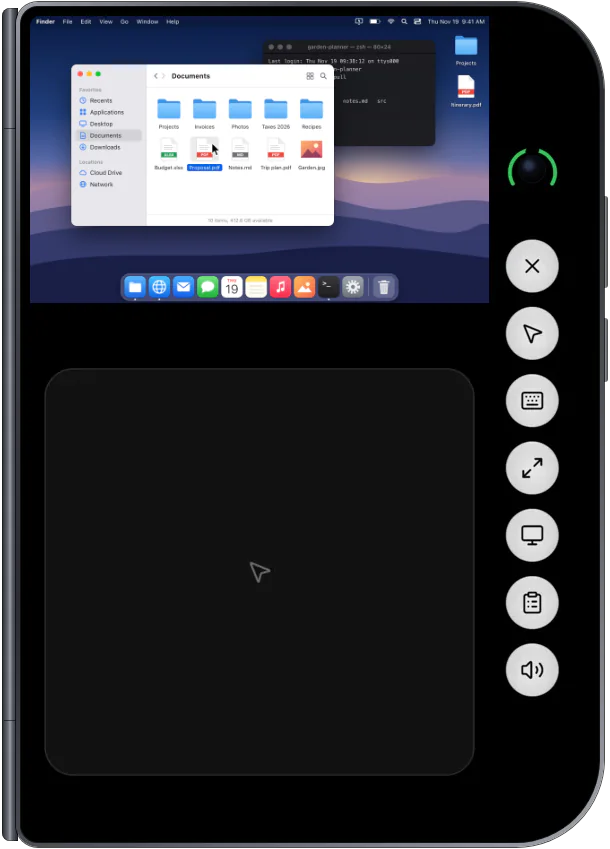
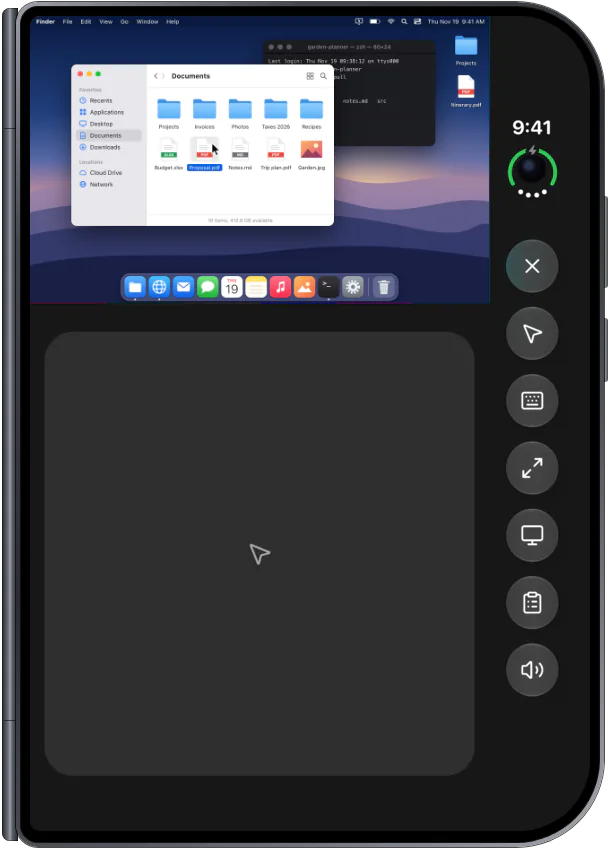
Recapture the homepage screenshots on the theme background
The app captures come from the current build in dark mode, so the session area
is the theme's #171717 instead of black and the connection pill is off, as it is
by default. The frame pages fill around them with the same color and no longer
need patches over the pill.

diff --git a/site/scripts/screenshots/laptop.html b/site/scripts/screenshots/laptop.html
@@ -11,10 +11,9 @@
   .body { position: absolute; left: 4px; top: 2px; width: 792px; height: 1112px; padding: 4px; border-radius: 80px; background: linear-gradient(150deg, #9da0a8 0%, #45474e 14%, #2b2d32 40%, #55585f 62%, #2b2d32 84%, #a3a6ae 100%); box-shadow: 0 0 0 1px rgba(0, 0, 0, 0.7); }
   .seam { position: absolute; left: 0; right: 0; top: 556px; height: 2px; background: rgba(0, 0, 0, 0.75); }
   .glass { position: relative; width: 100%; height: 100%; padding: 12px; border-radius: 76px; background: #000; box-shadow: inset 0 0 0 1px rgba(255, 255, 255, 0.07); }
-  .screen { position: relative; width: 760px; height: 1080px; border-radius: 63px; overflow: hidden; background: #000; }
+  .screen { position: relative; width: 760px; height: 1080px; border-radius: 63px; overflow: hidden; background: #171717; }
   .desktop { position: absolute; left: 0; top: 33px; width: 760px; height: 475px; }
-  .panel { position: absolute; left: 0; top: 540px; width: 760px; height: 540px; background: url(laptop-app.webp) 0 -465px / 760px 1005px no-repeat; }
-  .pill { position: absolute; left: 9px; top: 556px; width: 191px; height: 47px; background: #000; }
+  .panel { position: absolute; left: 0; top: 565px; width: 760px; height: 515px; background: url(laptop-app.webp) 0 -490px / 760px 1005px no-repeat; }
   .crease { position: absolute; left: 0; right: 0; top: 529px; height: 22px; background: linear-gradient(180deg, transparent, rgba(255, 255, 255, 0.022) 35%, rgba(0, 0, 0, 0.4) 50%, rgba(255, 255, 255, 0.022) 65%, transparent); }
 </style>
 </head>
@@ -24,7 +23,7 @@
   <div class="body">
     <div class="seam"></div>
     <div class="glass">
-      <div class="screen"><img class="desktop" src="desktop.png" alt=""><div class="panel"></div><div class="pill"></div><div class="crease"></div></div>
+      <div class="screen"><img class="desktop" src="desktop.png" alt=""><div class="panel"></div><div class="crease"></div></div>
     </div>
   </div>
 </body>

diff --git a/site/scripts/screenshots/folded.html b/site/scripts/screenshots/folded.html
@@ -14,9 +14,8 @@
   .power { top: 318px; height: 64px; }
   .body { position: absolute; left: 16px; top: 2px; width: 588px; height: 845px; padding: 4px; border-radius: 22px 88px 88px 22px; background: linear-gradient(140deg, #9da0a8 0%, #45474e 18%, #2b2d32 45%, #55585f 70%, #a3a6ae 100%); box-shadow: 0 0 0 1px rgba(0, 0, 0, 0.7); }
   .glass { width: 100%; height: 100%; padding: 10px; border-radius: 18px 84px 84px 18px; background: #000; box-shadow: inset 0 0 0 1px rgba(255, 255, 255, 0.07); }
-  .screen { position: relative; width: 560px; height: 815px; border-radius: 10px 71px 71px 10px; overflow: hidden; background: #000 url(folded-app.webp) 0 0 / 560px 815px no-repeat; }
-  .desktop { position: absolute; left: 0; top: 0; width: 459px; height: 287px; box-shadow: 1px 1px 0 #000; }
-  .pill { position: absolute; left: 9px; top: 296px; width: 203px; height: 47px; background: #000; }
+  .screen { position: relative; width: 560px; height: 815px; border-radius: 10px 71px 71px 10px; overflow: hidden; background: #171717 url(folded-app.webp) 0 0 / 560px 815px no-repeat; }
+  .desktop { position: absolute; left: 0; top: 0; width: 459px; height: 287px; }
   .camera { position: absolute; left: 489px; top: 140px; width: 26px; height: 26px; border-radius: 50%; background: radial-gradient(circle at 38% 36%, #2b3550 0 12%, #0b0d14 32%, #020203 70%); box-shadow: 0 0 0 1.5px #0c0c0f; }
 </style>
 </head>
@@ -26,7 +25,7 @@
   <div class="button power"></div>
   <div class="body">
     <div class="glass">
-      <div class="screen"><img class="desktop" src="desktop.png" alt=""><div class="pill"></div><div class="camera"></div></div>
+      <div class="screen"><img class="desktop" src="desktop.png" alt=""><div class="camera"></div></div>
     </div>
   </div>
 </body>
